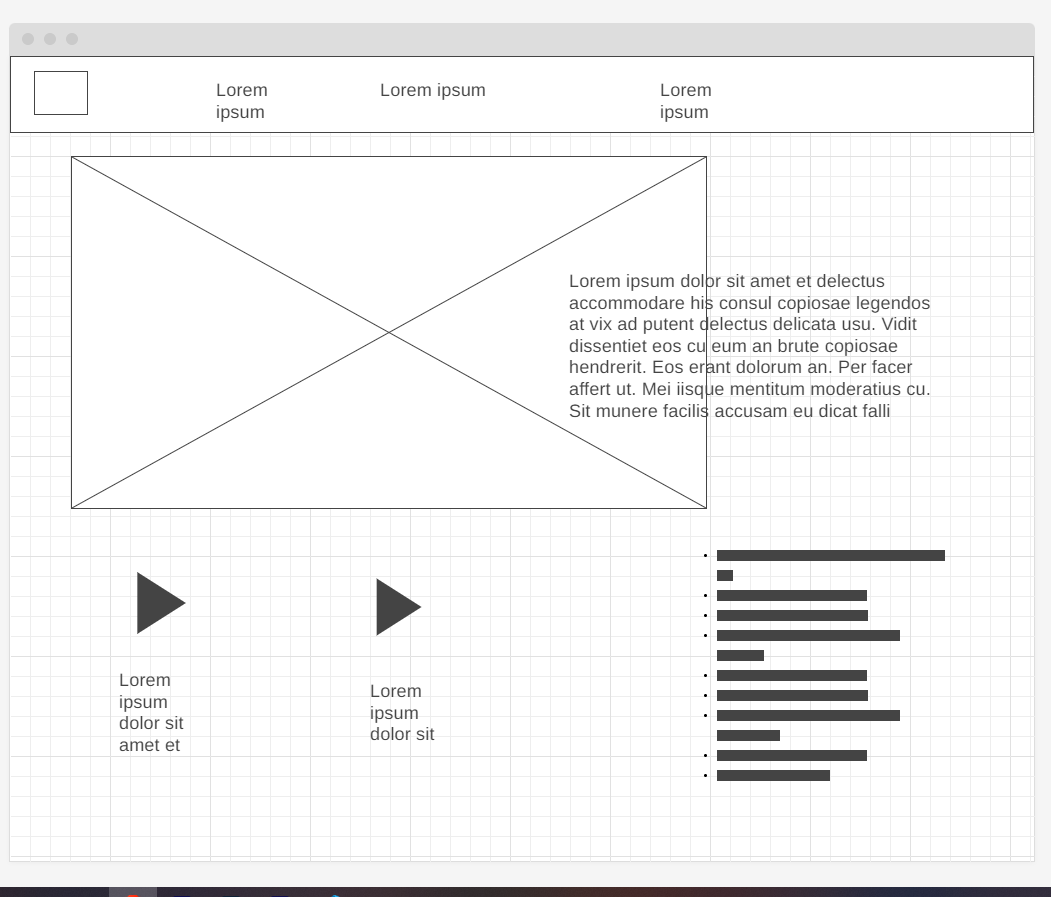
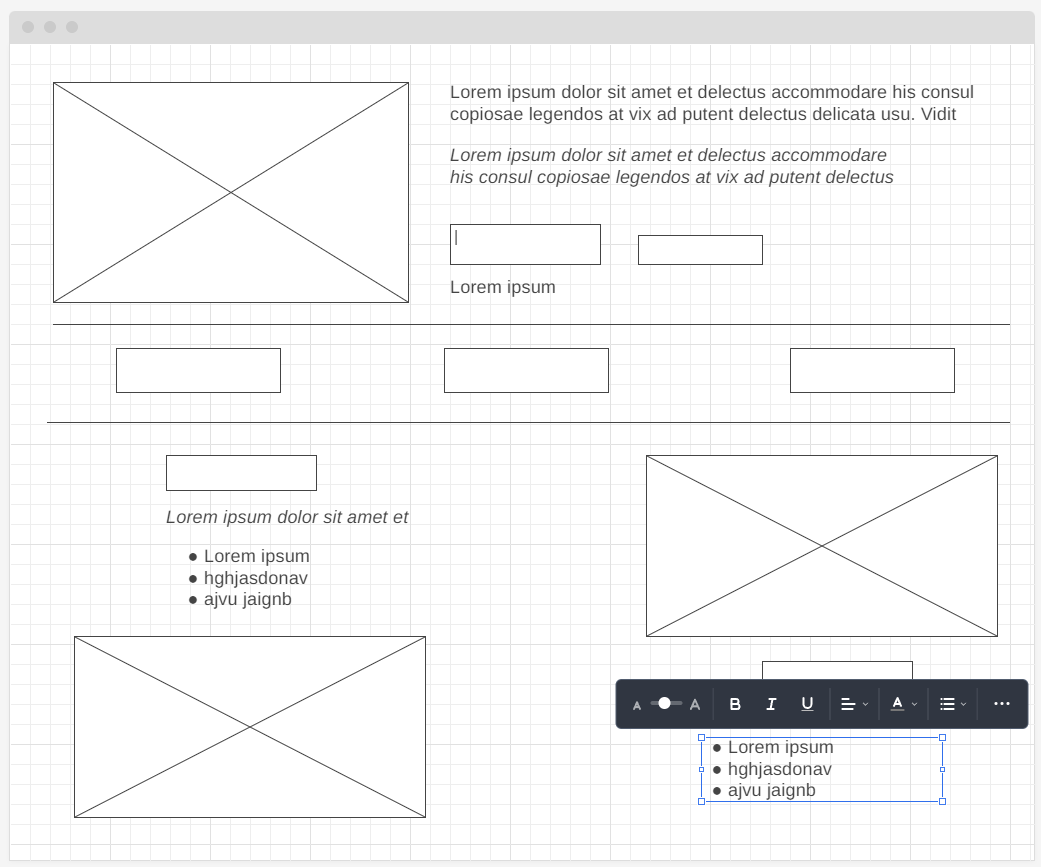
Revamped Homepage

diff --git a/index.html b/index.html
@@ -2,91 +2,60 @@
 <html lang="en">
   <head>
     <meta charset="UTF-8" />
-    <meta name="viewport" content="width=device-width, initial-scale=1.0" />
-    <link rel="stylesheet" href="style.css" />
-    <title>Dry Oar Boating</title>
+    <meta name="viewport" content="width=game, initial-scale=1.0" />
+    <link rel="stylesheet" href="site/site.css" />
+    <title>Document</title>
   </head>
-
   <body>
-    <div id="content">
-      <header>
-        <a id="logo_link" href="index.html">
-          <img
-            class="logo"
-            src="img/logo.png"
-            alt="Dry Oar Logo"
-            style="float: left"
-          />
-        </a>
-        <nav>
-          <a href="index.html">Home</a>
-          <a href="#">Page 2</a>
-          <a href="wwr/site-plan-rafting.html">Site Plan</a>
-          <a href="contactus.html">Contact Us</a>
-        </nav>
-      </header>
-
-      <div id="hero">
-        <div id="hero-box">
-          <img
-            id="hero-img"
-            src="img/hero.png"
-            alt="People enjoing the water"
-          />
-        </div>
-        <section id="hero-msg">
-          <h1 class="home-title">Have An Adventure</h1>
-          <h4>Make Memories With Dry Oar</h4>
-          <div class="button-box">
-            <a class="book" href="contactus.html">Book Now!</a>
-          </div>
-        </section>
-      </div>
-      <main class="home-grid">
-        <section class="rivers-card">
-          <img class="card-img" src="img/rivers.jpg" alt="river in forest" />
-          <img class="icon" src="img/river_icon.png" alt="river icon" />
-          <h2>Rivers</h2>
-        </section>
-        <section class="camping-card">
-          <img class="card-img" src="img/camping.jpg" alt="tent in mountains" />
-          <img class="icon" src="img/fire_icon.png" alt="fire icon" />
-          <h2>Camping</h2>
-        </section>
-        <section class="rapids-card">
-          <img class="card-img" src="img/rapids.jpg" alt="rafting boat" />
-          <img class="icon" src="img/oars.png" alt="oars icon" />
-          <h2>Rapids</h2>
-        </section>
-        <div id="background"></div>
-        <img class="mountains" src="img/mountains.jpg" alt="Misty mountains" />
-        <section class="msg">
-          <h2>More Than Just The Thrill</h2>
-          <p>
-            Enjoy the breathtaking scenery. From Valleys, meadows, canyons, and
-            high peaks; it's more than just the rapids. It's a great way to get
-            away!
-          </p>
-          <a class="join" href="rivers.html">Join Us</a>
-        </section>
-      </main>
-
-      <footer>
-        <p>Dry Oar &copy; 2023 - Thomas Hail</p>
-        <p><a href="wwr/site-plan-rafting.html">Site Plan</a></p>
-        <p><a href="contactus.html">Contact Us</a></p>
-        <div class="social">
-          <a href="https://facebook.com" target="_blank">
-            <img src="img/facebook.png" alt="fb icon" />
-          </a>
-          <a href="https://twitter.com" target="_blank">
-            <img src="img/twitter.png" alt="twitter icon" />
-          </a>
-          <a href="https://instagram.com" target="_blank">
-            <img src="img/instagram.png" alt="instagram icon" />
-          </a>
-        </div>
-      </footer>
+    <div class="header">
+      <img
+        src="site/imgs/TingleHome.png"
+        alt="TingleProfile"
+        width="500px"
+        height="500px"
+      />
+      <h1>Creator, Artist, #1 Tingle Fan</h1>
+      <p>Enter your Email to be notified of activity and sales</p>
+      <form
+        action="mailto:someone@example.com"
+        method="post"
+        enctype="text/plain"
+      >
+        E-mail: <br />
+        <input type="text" name="mail" /><br />
+        <input type="submit" value="Send" />
+        <input type="reset" value="Reset" />
+      </form>
     </div>
+    <hr />
+    <div id="nav">
+      <button type="button">Schedule</button>
+      <button type="button">Store</button>
+      <button type="button">Contact Me</button>
+    </div>
+    <hr />
+    <div id="youtube">
+      <img src="" alt="Channel Banner" />
+      <h2>Content focused on Fighting Games!</h2>
+    </div>
+    <div id="art">
+      <img src="" alt="Portfolio" />
+      <h2>All my recent art!</h2>
+    </div>
+    <div id="merch">
+      <img src="" alt="store page" />
+      <h2>Buy high quality prints of my work and other merch!</h2>
+    </div>
+    <hr />
+    <footer>
+      <h3>
+        Site Made by Thomas Hail <br />
+        WDD 130 <br />
+        Fall 2023
+      </h3>
+    </footer>
+    <hr />
+    <h1>Site Plan</h1>
+    <img src="site/imgs/Home.PNG" alt="site plan" />
   </body>
 </html>

diff --git a/Rafting/index.html b/Rafting/index.html
@@ -1,0 +1,92 @@
+<!DOCTYPE html>
+<html lang="en">
+  <head>
+    <meta charset="UTF-8" />
+    <meta name="viewport" content="width=device-width, initial-scale=1.0" />
+    <link rel="stylesheet" href="style.css" />
+    <title>Dry Oar Boating</title>
+  </head>
+
+  <body>
+    <div id="content">
+      <header>
+        <a id="logo_link" href="index.html">
+          <img
+            class="logo"
+            src="img/logo.png"
+            alt="Dry Oar Logo"
+            style="float: left"
+          />
+        </a>
+        <nav>
+          <a href="index.html">Home</a>
+          <a href="#">Page 2</a>
+          <a href="wwr/site-plan-rafting.html">Site Plan</a>
+          <a href="contactus.html">Contact Us</a>
+        </nav>
+      </header>
+
+      <div id="hero">
+        <div id="hero-box">
+          <img
+            id="hero-img"
+            src="img/hero.png"
+            alt="People enjoing the water"
+          />
+        </div>
+        <section id="hero-msg">
+          <h1 class="home-title">Have An Adventure</h1>
+          <h4>Make Memories With Dry Oar</h4>
+          <div class="button-box">
+            <a class="book" href="contactus.html">Book Now!</a>
+          </div>
+        </section>
+      </div>
+      <main class="home-grid">
+        <section class="rivers-card">
+          <img class="card-img" src="img/rivers.jpg" alt="river in forest" />
+          <img class="icon" src="img/river_icon.png" alt="river icon" />
+          <h2>Rivers</h2>
+        </section>
+        <section class="camping-card">
+          <img class="card-img" src="img/camping.jpg" alt="tent in mountains" />
+          <img class="icon" src="img/fire_icon.png" alt="fire icon" />
+          <h2>Camping</h2>
+        </section>
+        <section class="rapids-card">
+          <img class="card-img" src="img/rapids.jpg" alt="rafting boat" />
+          <img class="icon" src="img/oars.png" alt="oars icon" />
+          <h2>Rapids</h2>
+        </section>
+        <div id="background"></div>
+        <img class="mountains" src="img/mountains.jpg" alt="Misty mountains" />
+        <section class="msg">
+          <h2>More Than Just The Thrill</h2>
+          <p>
+            Enjoy the breathtaking scenery. From Valleys, meadows, canyons, and
+            high peaks; it's more than just the rapids. It's a great way to get
+            away!
+          </p>
+          <a class="join" href="rivers.html">Join Us</a>
+        </section>
+      </main>
+
+      <footer>
+        <p>Dry Oar &copy; 2023 - Thomas Hail</p>
+        <p><a href="wwr/site-plan-rafting.html">Site Plan</a></p>
+        <p><a href="contactus.html">Contact Us</a></p>
+        <div class="social">
+          <a href="https://facebook.com" target="_blank">
+            <img src="img/facebook.png" alt="fb icon" />
+          </a>
+          <a href="https://twitter.com" target="_blank">
+            <img src="img/twitter.png" alt="twitter icon" />
+          </a>
+          <a href="https://instagram.com" target="_blank">
+            <img src="img/instagram.png" alt="instagram icon" />
+          </a>
+        </div>
+      </footer>
+    </div>
+  </body>
+</html>

diff --git a/site/site.css b/site/site.css
@@ -1,0 +1,20 @@
+hr {
+  width: 90%;
+  height: 1px;
+  background-color: black;
+  margin: auto;
+  color: black;
+}
+
+div.header {
+  width: 40%;
+  height: auto;
+  float: left;
+  border: 1px black;
+}
+
+div.nav {
+  padding-top: 30px;
+  padding-bottom: 30px;
+  margin: 30px;
+}
